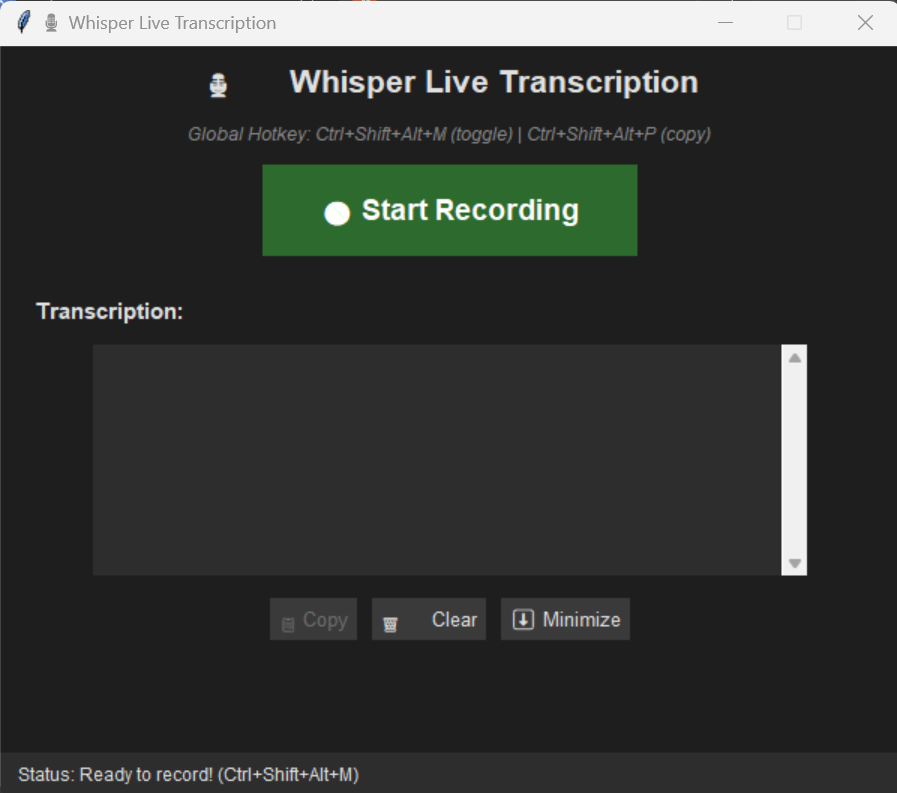
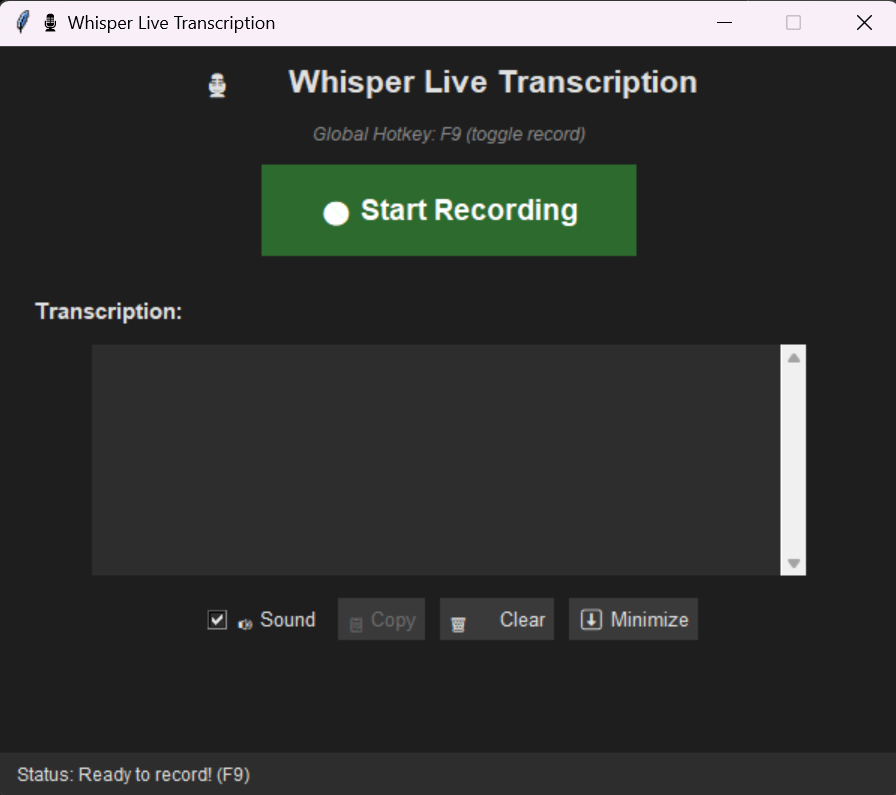
Change hotkey to F9, add sound notification toggle, update README and screenshot

diff --git a/whisper_transcriber.py b/whisper_transcriber.py
@@ -10,6 +10,7 @@ from transformers import WhisperProcessor, pipeline
 import pystray
 from PIL import Image, ImageDraw
 import keyboard
+import winsound
 
 class WhisperApp:
     def __init__(self, root):
@@ -33,6 +34,9 @@ class WhisperApp:
         self.stream = None
         self.p = None
         
+        # Sound on by default
+        self.sound_enabled = True
+
         # Audio settings
         self.CHUNK = 1024
         self.FORMAT = pyaudio.paInt16
@@ -68,7 +72,7 @@ class WhisperApp:
         # Hotkey info
         hotkey_label = tk.Label(
             self.root,
-            text="Global Hotkey: Ctrl+Shift+Alt+M (toggle) | Ctrl+Shift+Alt+P (copy)",
+            text="Global Hotkey: F9 (toggle record)",
             font=("Arial", 9, "italic"),
             fg="#888888",
             bg=self.bg_color
@@ -118,6 +122,22 @@ class WhisperApp:
         button_frame = tk.Frame(self.root, bg=self.bg_color)
         button_frame.pack(pady=10)
         
+        # Sound toggle checkbox
+        self.sound_var = tk.BooleanVar(value=True) # Default to enabled
+        sound_check = tk.Checkbutton(
+            button_frame,
+            text="🔊 Sound",
+            variable=self.sound_var,
+            command=self.toggle_sound,
+            font=("Ariel", 10),
+            bg=self.bg_color,
+            fg=self.fg_color,
+            selectcolor=self.accent_color,
+            activebackground=self.bg_color,
+            activeforeground=self.fg_color
+        )
+        sound_check.pack(side=tk.LEFT, padx=5)
+
         # Copy button
         self.copy_button = tk.Button(
             button_frame,
@@ -171,6 +191,10 @@ class WhisperApp:
         )
         self.status_label.pack(side=tk.BOTTOM, fill=tk.X)
     
+    def toggle_sound(self):
+        """Toggle sound on/off"""
+        self.sound_enabled = self.sound_var.get()
+
     def create_tray_image(self):
         """Create icon for system tray"""
         # Create a simple microphone icon
@@ -191,8 +215,7 @@ class WhisperApp:
         
         menu = pystray.Menu(
             pystray.MenuItem("Show Window", self.show_window),
-            pystray.MenuItem("Start/Stop Recording (Ctrl+Shift+Alt+M)", self.toggle_recording),
-            pystray.MenuItem("Copy to Clipboard (Ctrl+Shift+Alt+P)", self.copy_to_clipboard_hotkey),
+            pystray.MenuItem("Start/Stop Recording (F9)", self.toggle_recording),
             pystray.MenuItem("Quit", self.quit_app)
         )
         
@@ -208,10 +231,9 @@ class WhisperApp:
         tray_thread.start()
     
     def setup_hotkey(self):
-        """Setup global hotkey (Ctrl+Shift+Alt+M)"""
+        """Setup global hotkey (F9 to toggle recording)"""
         try:
-            keyboard.add_hotkey('ctrl+shift+alt+m', self.toggle_recording)
-            keyboard.add_hotkey('ctrl+shift+alt+p', self.copy_to_clipboard_hotkey)
+            keyboard.add_hotkey('f9', self.toggle_recording)
         except Exception as e:
             print(f"Could not register hotkey: {e}")
     
@@ -248,9 +270,10 @@ class WhisperApp:
                     model=self.model,
                     tokenizer=self.processor.tokenizer,
                     feature_extractor=self.processor.feature_extractor,
+                    device=-1  # -1 means don't use PyTorch device handling
                 )
                 
-                self.update_status("Ready to record! (Ctrl+Shift+Alt+M)")
+                self.update_status("Ready to record! (F9)")
                 self.record_button.config(state=tk.NORMAL)
             except Exception as e:
                 self.update_status(f"Error loading model: {str(e)}")
@@ -293,7 +316,7 @@ class WhisperApp:
             text="⏹ Stop Recording",
             bg="#8b0000"
         ))
-        self.update_status("🎤 Recording... Press Ctrl+Shift+Alt+M or click Stop to finish")
+        self.update_status("🎤 Recording... Press F9 or click Stop to finish")
 
         # Start recording in background thread
         def record():
@@ -461,7 +484,11 @@ class WhisperApp:
         self.root.clipboard_clear()
         self.root.clipboard_append(text)
 
-        self.update_status("✅ Transcription complete & on clipboard! (Ctrl+Shift+Alt+M to record again)")
+        self.update_status("✅ Transcription complete & on clipboard! (F9 to record again)")
+
+        #Play completion sound
+        if self.sound_enabled:
+            winsound.Beep(659, 100)  # Single pleasant E note
     
     def copy_to_clipboard(self):
         """Copy transcription to clipboard"""
@@ -469,25 +496,12 @@ class WhisperApp:
         self.root.clipboard_clear()
         self.root.clipboard_append(text)
         self.update_status("📋 Copied to clipboard!")
-
-    def copy_to_clipboard_hotkey(self):
-        """Copy transcription to clipboard via hotkey"""
-        text = self.transcription_box.get("1.0", tk.END).strip()
-        if text:
-            self.root.clipboard_clear()
-            self.root.clipboard_append(text)
-            self.update_status("📋 Copied to clipboard! (Ctrl+Shift+Alt+P)")
-            # Optional: Show notification if window is hidden
-            if not self.root.winfo_viewable() and self.tray_icon:
-                self.tray_icon.notify("Copied to clipboard!", text[:100] + "..." if len(text) > 100 else text)
-        else:
-            self.update_status("⚠ Nothing to copy!")
     
     def clear_transcription(self):
         """Clear transcription box"""
         self.transcription_box.delete("1.0", tk.END)
         self.copy_button.config(state=tk.DISABLED)
-        self.update_status("Ready to record! (Ctrl+Shift+Alt+M)")
+        self.update_status("Ready to record! (F9)")
     
     def update_status(self, message):
         """Update status bar"""

diff --git a/README.md b/README.md
@@ -66,9 +66,8 @@ python whisper_transcriber.py
 - **Clear** button clears the transcription
 - **Minimize to Tray** keeps the app running in background
 
-**Global Hotkeys:**
-- `Ctrl+Shift+Alt+M` - Start/stop recording from anywhere
-- `Ctrl+Shift+Alt+P` - Copy transcription to clipboard
+**Global Hotkey:**
+- `F9` - Start/stop recording from anywhere
 
 **System Tray:**
 - Right-click the tray icon for quick access
